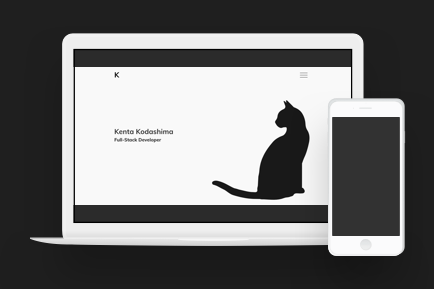
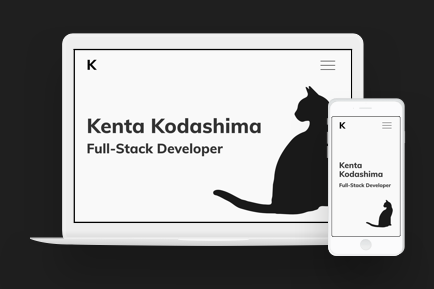
Modify the BurgerButton style. Replace the portfolio-thumbnail.png.

Changed region(s): [[0.1498, 0.1557, 0.9286, 0.8408], [0.1797, 0.4048, 0.5991, 0.5606]]

diff --git a/src/components/BurgerButton/BurgerButton.styled.tsx b/src/components/BurgerButton/BurgerButton.styled.tsx
@@ -6,17 +6,16 @@ type StyledBurgerProps = {
 
 export const StyledBurger = styled.button<StyledBurgerProps>`
   display: block;
-  padding: 25px 15px;
+  height: 36px;
   border: none;
   background-color: transparent;
 
   span {
     position: relative;
-    display: inline-block;
+    display: block;
     width: 52px;
     height: 2px;
     background-color: ${props => props.open ? 'transparent' : props.theme.colors.accent};
-    top: 0;
 
     &:before {
       content: '';

diff --git a/src/components/Layout/GlobalStyle.tsx b/src/components/Layout/GlobalStyle.tsx
@@ -242,7 +242,7 @@ export const GlobalStyle = createGlobalStyle<{theme: ThemeType}>`
     font-weight: bold;
     text-rendering: optimizeLegibility;
     // font-size: 2.25rem;
-    line-height: 1.1;
+    line-height: 1;
   }
   h2 {
     margin-left: 0;
